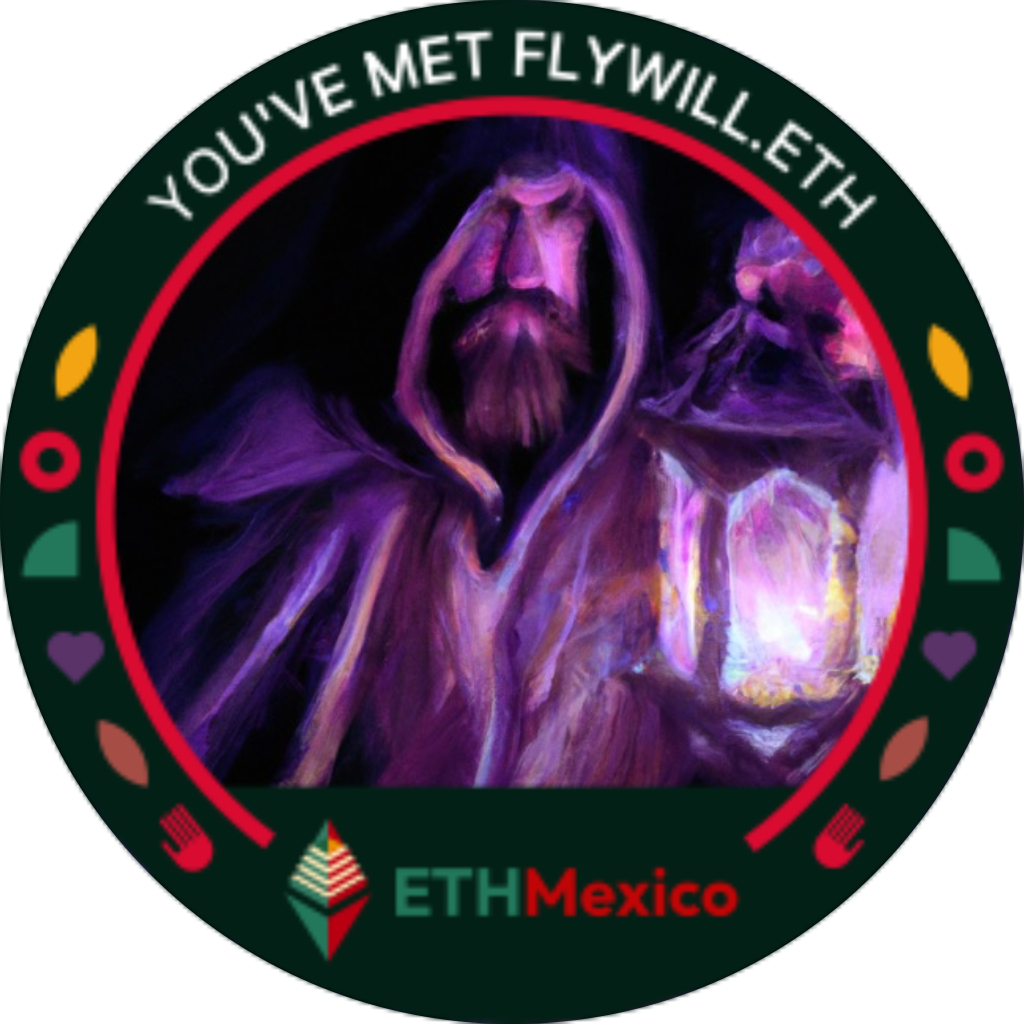
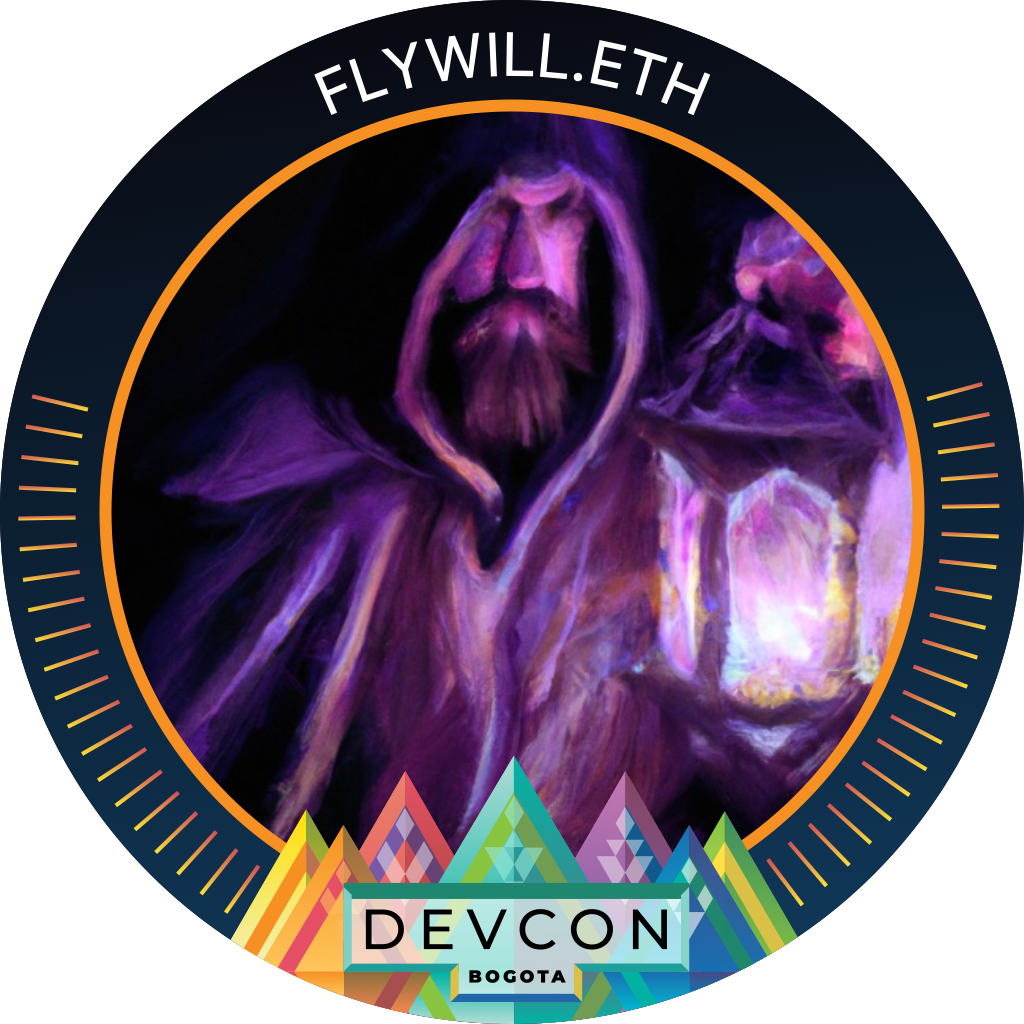
update for Bogota

Changed region(s): [[0.0, 0.0, 1.0, 1.0]]

diff --git a/src/pages/api/claim.ts b/src/pages/api/claim.ts
@@ -2,7 +2,7 @@ import apiReq from '@/lib/fetcher'
 import { VerificationResponse } from '@worldcoin/id'
 import { NextApiRequest, NextApiResponse } from 'next'
 
-const POAP_URL = 'https://welook.io/mint/cwb8p5'
+const POAP_URL = 'https://welook.io/mint/l78eic'
 
 type RequestBody = VerificationResponse & { signal: string }
 
@@ -16,7 +16,7 @@ const handler = async (req: NextApiRequest, res: NextApiResponse) => {
 		merkle_root,
 		nullifier_hash,
 		proof,
-		action_id: process.env.NEXT_PUBLIC_ACTION_ID,
+		action_id,
 	})
 
 	if (verificationResponse.ok) {

diff --git a/src/pages/index.tsx b/src/pages/index.tsx
@@ -32,7 +32,7 @@ const Home: FC = () => {
 				<div className="flex items-center flex-col mt-8">
 					<img className="w-48" src="/images/poap-image.png" alt="" />
 					<div className="mt-8 text-xl text-bold bg-slate-200 py-4 px-8 dark:bg-neutral-700 rounded-md">
-						You've met flywill.eth at ETHMexico
+						You've met flywill.eth at ETHBogotá
 					</div>
 				</div>
 
